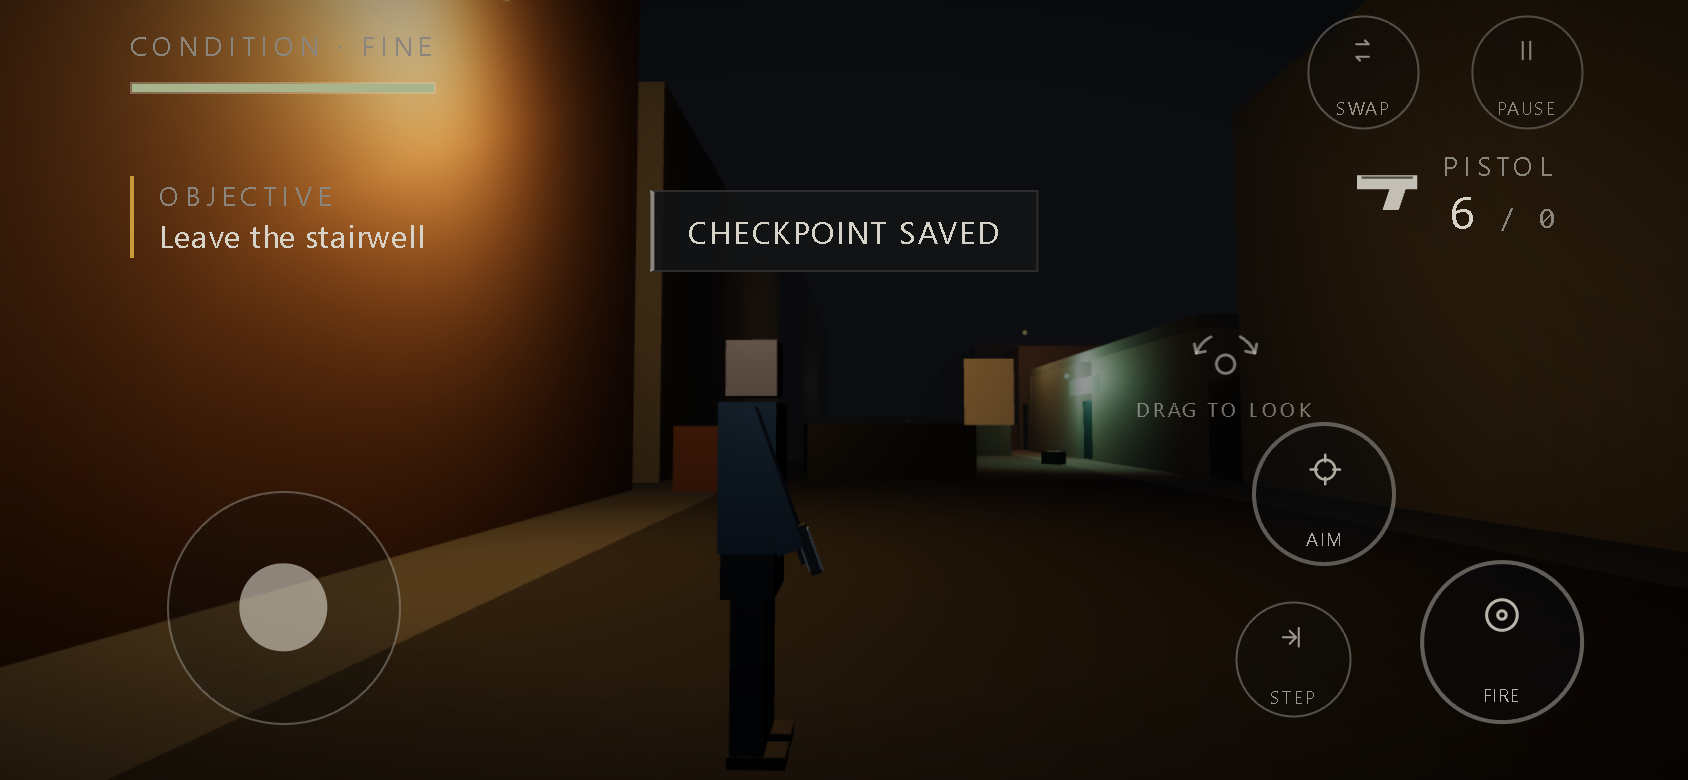
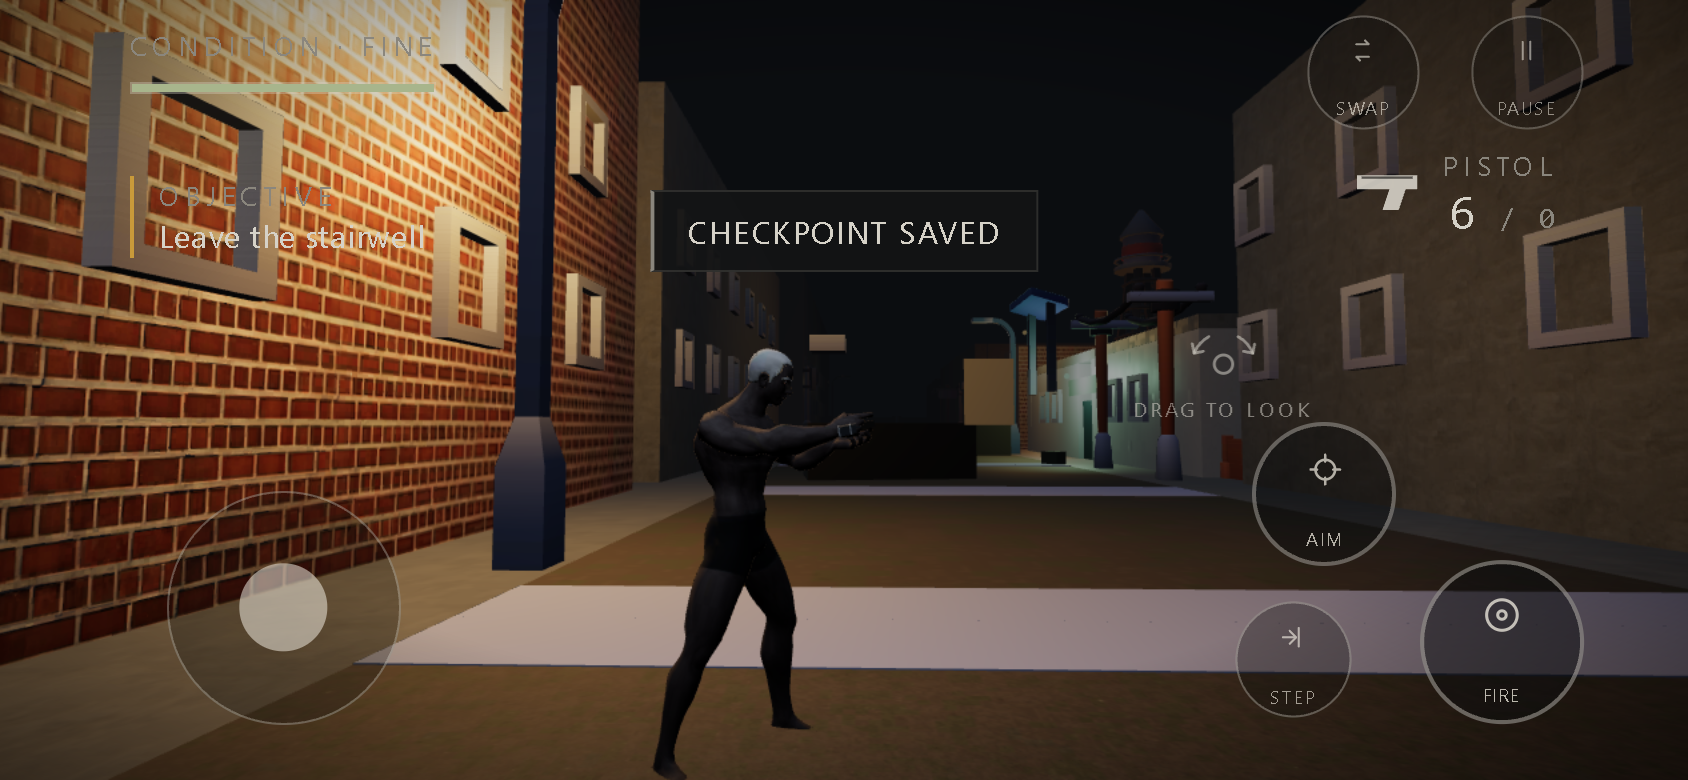
test,docs: preset capture waits for boot; release gate records deployments and the isolated preset rerun

diff --git a/tests/e2e/touch-presets.spec.ts b/tests/e2e/touch-presets.spec.ts
@@ -24,6 +24,15 @@ async function startRun(page: Page, safe: { top: number; right: number; bottom: 
     root.setProperty('--tqc-safe-left', `${s.left}px`);
   }, safe);
   await expect(page.locator('.tqc-screen')).toBeVisible();
+  // Boot preloads the asset set; act only once the warning or the menu is up.
+  await page.waitForFunction(
+    () => {
+      const id = window.__tqc?.screens.top?.id;
+      return id === 'warning' || id === 'mainMenu';
+    },
+    undefined,
+    { timeout: 120_000 },
+  );
   const cont = page.getByRole('button', { name: /^Continue$/ });
   if (await cont.isVisible().catch(() => false)) await cont.tap();
   await page.getByRole('button', { name: /New run/ }).tap();

diff --git a/docs/audit/10_RELEASE_GATE.md b/docs/audit/10_RELEASE_GATE.md
@@ -108,8 +108,15 @@ untested** and must be run before a public release:
 | Held weapon evidence | `… weapon.spec.ts` (desktop + phone) | PASS (desktop and phone); `*-30…33-weapon-*.png` now show the skinned resident |
 | Three session cycles, heap | `… memory.spec.ts --project=desktop-1080p` | PASS — 141.1 MB after each of three cycles (Chromium reports the heap coarsely; no growth between cycles 2 and 3) |
 | Frame-time floor | `… perf.spec.ts` (desktop three tiers, phone Low with 4× CPU throttle) | PASS (records written); JSON in `docs/audit/perf/` |
-| Touch loop, presets, phone weapon | `… touch.spec.ts touch-presets.spec.ts weapon.spec.ts --project=phone-landscape` | PASS (touch loop ×2 specs, weapon, screens); `touch-presets.spec.ts` needed its timeout raised to 25 min for 20 boots under software rendering — see the rerun row below |
+| Touch loop, presets, phone weapon | `… touch.spec.ts touch-presets.spec.ts weapon.spec.ts --project=phone-landscape` | PASS (touch loop ×2 specs, weapon, screens); `touch-presets.spec.ts` PASS in an isolated rerun (6.1 min, 20 captures refreshed in `docs/audit/touch/after/`) once its boot sequence waited for the asset preload (TQC-057) and its timeout allowed 20 software-rendered boots |
 | Offline | `pnpm test:offline` | PASS (30 s): install → offline reload → warning → new run → flashlight pickup → checkpoint save → offline reload → Continue |
+
+### Deployment (asset wave)
+
+| Target | Deployment | Build | Checks |
+|---|---|---|---|
+| Production https://quiet-collapse.pages.dev | `6dc3d02d` | `0acb083fdc83` (93 precached files, 10.33 MB) | index / manifest / worker / precache manifest 200; all 93 precached URLs 200; CSP present with `wasm-unsafe-eval`, `unsafe-eval`, `worker-src blob:`, `connect-src blob:`; no `http://` references; live boot + offline gates PASS (see TQC-062 for why the first two QA deploys failed on the deployed origin only) |
+| QA https://qa.quiet-collapse.pages.dev | `90a4440b` | same | `E2E_BASE_URL=https://qa.quiet-collapse.pages.dev … live-boot.spec.ts offline.spec.ts` → 2 passed (52.8 s), stamp `0.1.0 · 6e33c6e` |
 
 ### Frame-time floor (headless Chromium + SwiftShader software GL; CPU floor only, not GPU truth)
 

diff --git a/docs/audit/STATE.md b/docs/audit/STATE.md
@@ -42,9 +42,10 @@ Resume from this file, not from scratch.
   touch-presets (20 captures in `docs/audit/touch/after/`), weapon, screens (phone); offline.
   Behaviour change to note for real-device testers: mouse/controller vertical look is now un-inverted
   (standard) and the camera sits over the right shoulder.
-  Production https://quiet-collapse.pages.dev (deployment `35888b39`) and QA preview
-  https://qa.quiet-collapse.pages.dev (deployment `0931469e`) both serve commit `c436f35` (build `93eb8c4b509a`);
-  live boot + offline gates green against production.
+  Deployments before the asset wave: production `35888b39`, QA `0931469e` (commit `c436f35`, build `93eb8c4b509a`).
+  Asset wave: production `6dc3d02d` and QA `90a4440b` serve build `0acb083fdc83` (93 precached files, 10.33 MB);
+  live boot + offline gates green against both. The deployed CSP now allows wasm, blob workers and blob
+  connections (TQC-062) — a CSP change must be verified against the QA alias, never only the local preview.
 - **All gates passed in headless Chromium**: desktop loop (KBM) ×2, emulated controller flow, phone touch
   loop, smoke, evidence screenshots (1080p, phone; 1366×768 run last). Unit: 69 tests. See 10_RELEASE_GATE.md.
 - Remaining work is real-device verification (no GPU/hardware in this session) — see the manual matrix.
